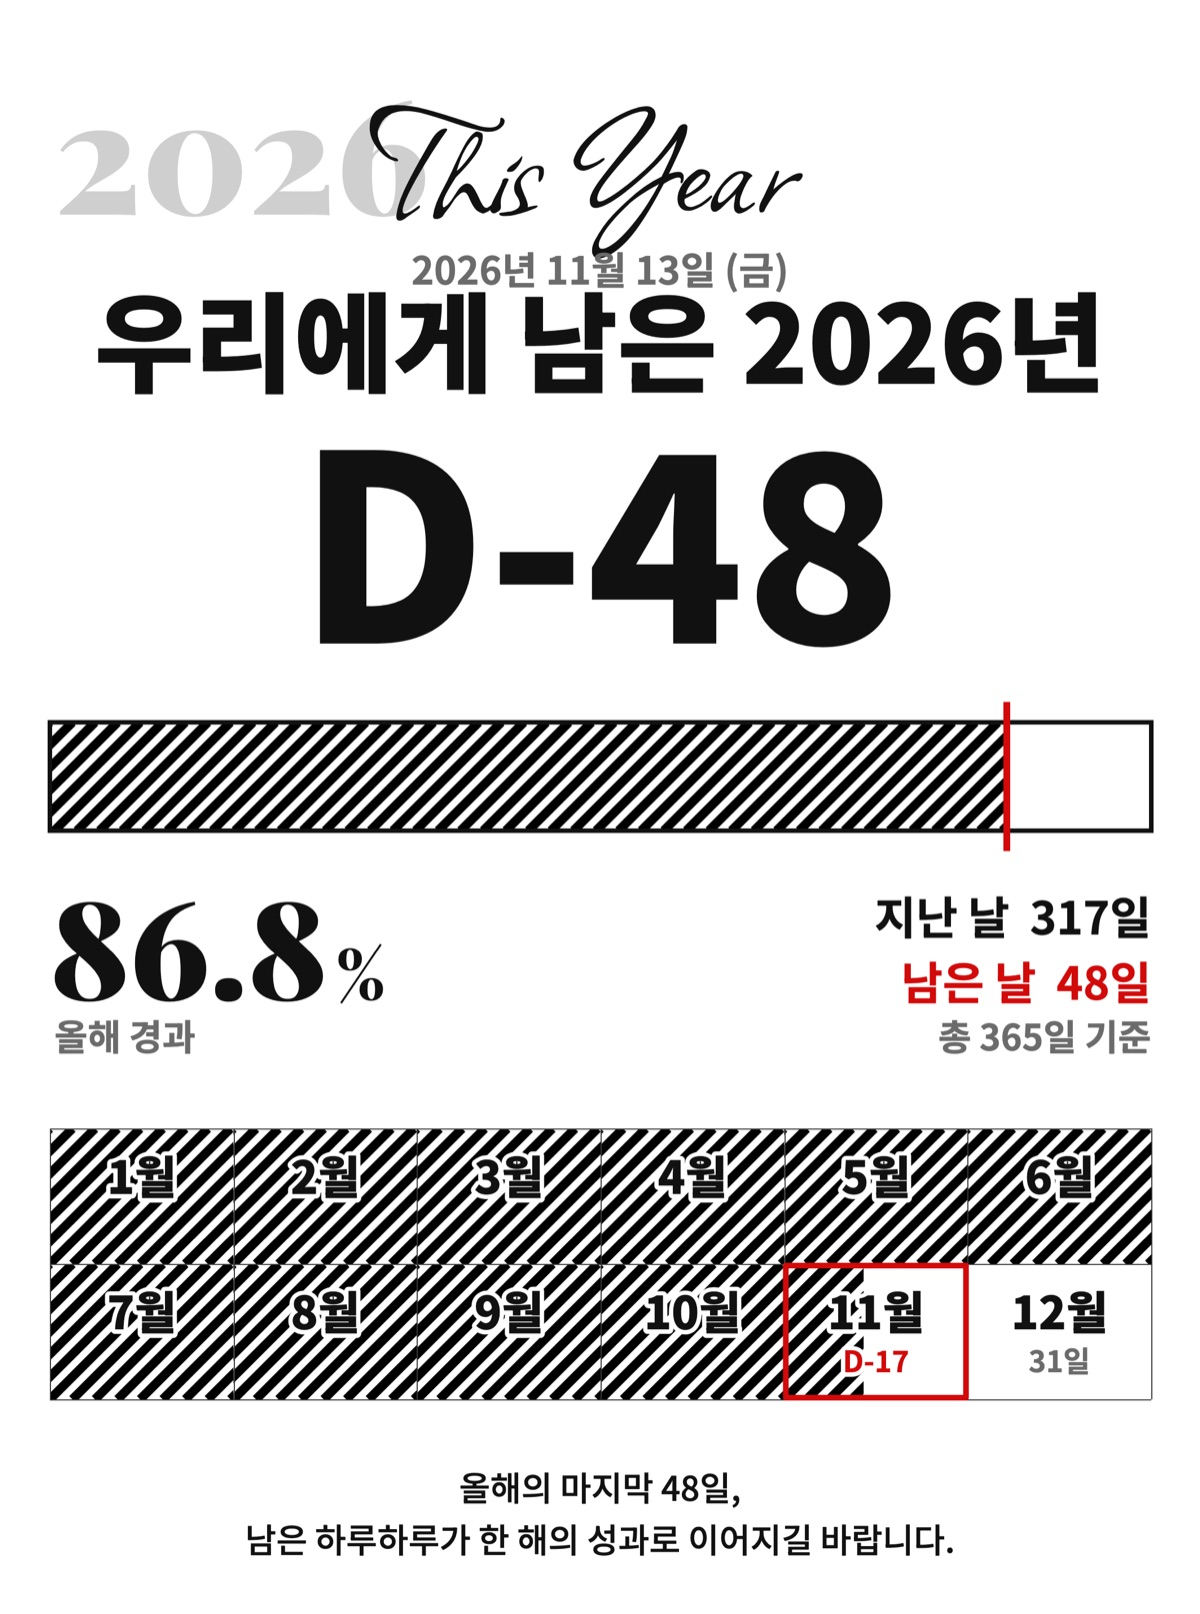
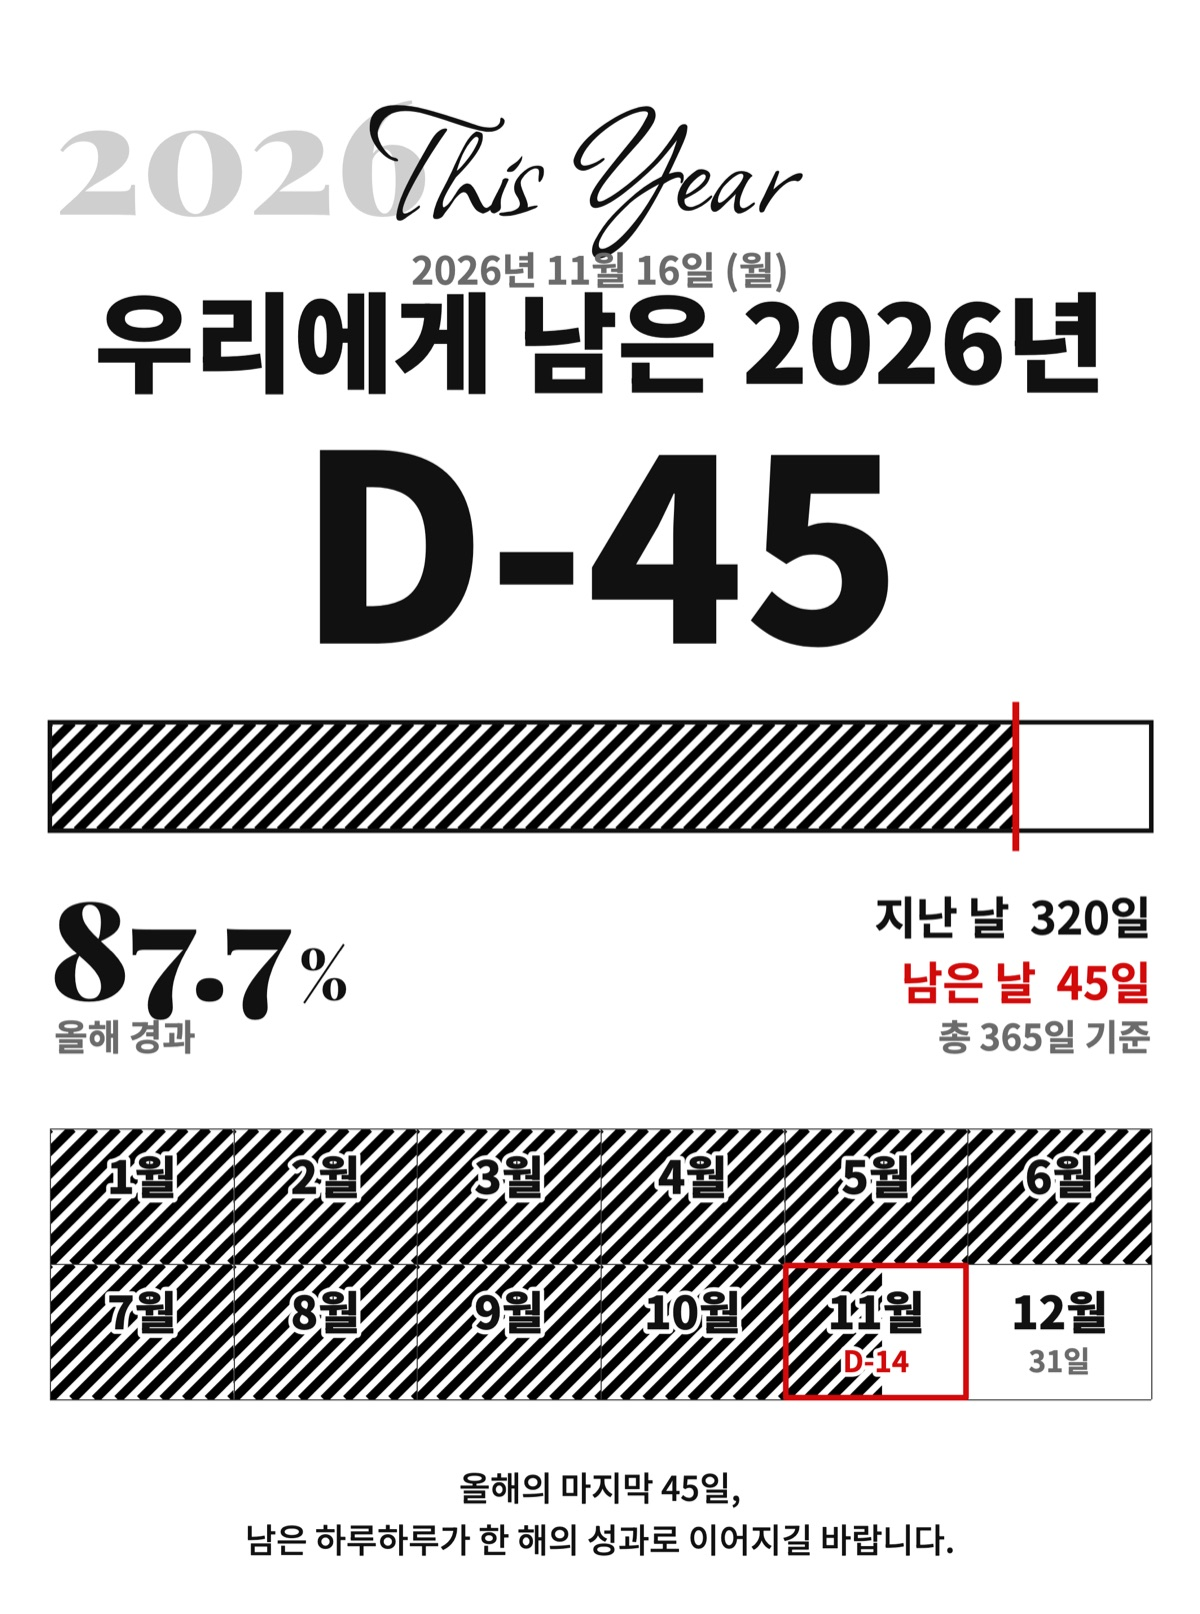
공부방 아침 11-16 (5장)

diff --git a/insight/20261116/index.html b/insight/20261116/index.html
@@ -1,0 +1,28 @@
+<!doctype html>
+<html lang="ko"><head><meta charset="utf-8">
+<meta name="viewport" content="width=device-width,initial-scale=1">
+<meta name="robots" content="noindex,nofollow">
+<title>보험인사이트 11/16(월)</title>
+<meta property="og:title" content="보험인사이트 11/16(월)">
+<meta property="og:description" content="MK 보험인사이트 · 오늘 바로 쓰는 상담 대화·퀴즈·고객 전달용 카드">
+<meta property="og:image" content="https://jungmookyung.github.io/bohum-hanip/insight/20261116/1.jpg">
+<meta property="og:url" content="https://jungmookyung.github.io/bohum-hanip/insight/20261116/">
+<meta property="og:type" content="article">
+<style>
+:root{--bg:#eef1f6;--fg:#0E1F54}
+@media (prefers-color-scheme:dark){:root{--bg:#0b1020;--fg:#dfe6ff}}
+body{margin:0;background:var(--bg);color:var(--fg);font-family:'Pretendard','Noto Sans KR',sans-serif}
+main{max-width:720px;margin:0 auto;padding:12px 12px 40px}
+h1{font-size:18px;margin:6px 4px 12px}
+img{display:block;width:100%;height:auto;margin:0 0 12px;border-radius:10px;box-shadow:0 1px 4px rgba(0,0,0,.12)}
+p{font-size:13px;opacity:.7;margin:4px}
+</style></head>
+<body><main>
+<h1>보험인사이트 11/16(월)</h1>
+<img src="1.jpg" alt="1장" loading="eager">
+<img src="2.jpg" alt="2장" loading="lazy">
+<img src="3.jpg" alt="3장" loading="lazy">
+<img src="4.jpg" alt="4장" loading="lazy">
+<img src="5.jpg" alt="5장" loading="lazy">
+<p>사진을 길게 누르면 저장할 수 있어요.</p>
+</main></body></html>
